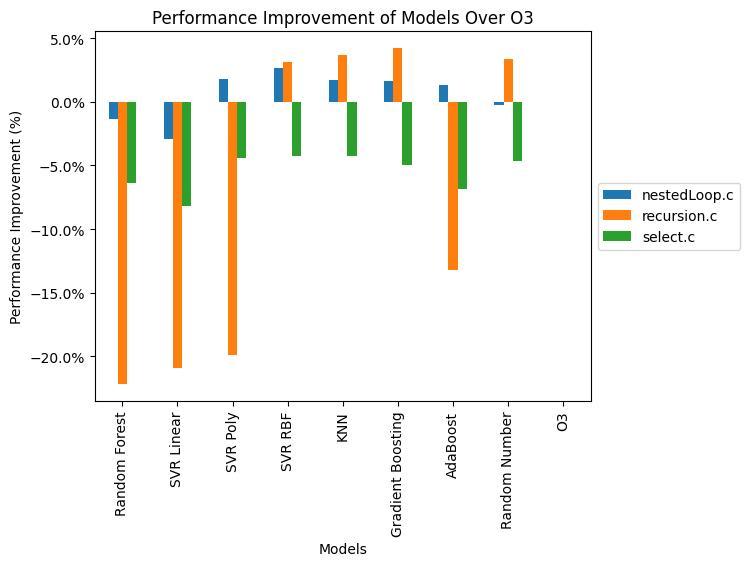
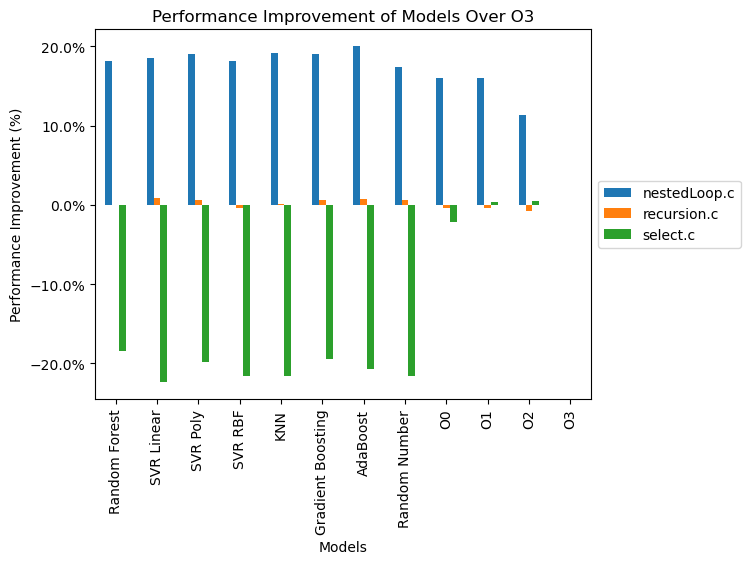
Update with O0, O1, O2

diff --git a/mlModel/inference.py b/mlModel/inference.py
@@ -98,7 +98,9 @@ def profile(test_directory, n):
             for model_name, opt_sequence_number in zip(headers[1:], row[1:]):
                 opt_sequence = optimization_permutations[int(opt_sequence_number)]
                 times.append(compile_test_file_with_optimization(output_dir,llvm_ir, opt_sequence,n))
-            times.append(compile_test_file_with_optimization_level(output_dir,llvm_ir, 3,n)) #O3
+            # Iterate from 0-3 for optimization levels
+            for i in range(4):
+                times.append(compile_test_file_with_optimization_level(output_dir,llvm_ir, i,n))
             #Convert to percentage
             percent=[t/times[-1] for t in times[1:]]
             output.append(percent)
@@ -106,7 +108,7 @@ def profile(test_directory, n):
     #Print Results
     with open('results.csv', 'w', newline='') as csvfile:
         writer = csv.writer(csvfile)
-        writer.writerow(['Filename'] + headers[1:] + ['O3'])  # Write header row
+        writer.writerow(['Filename'] + headers[1:] + ['O0'] + ['O1'] + ['O2'] + ['O3'])  # Write header row
         for i, out in enumerate(output):
             out.insert(0,filenames[i])
             writer.writerow(out)
